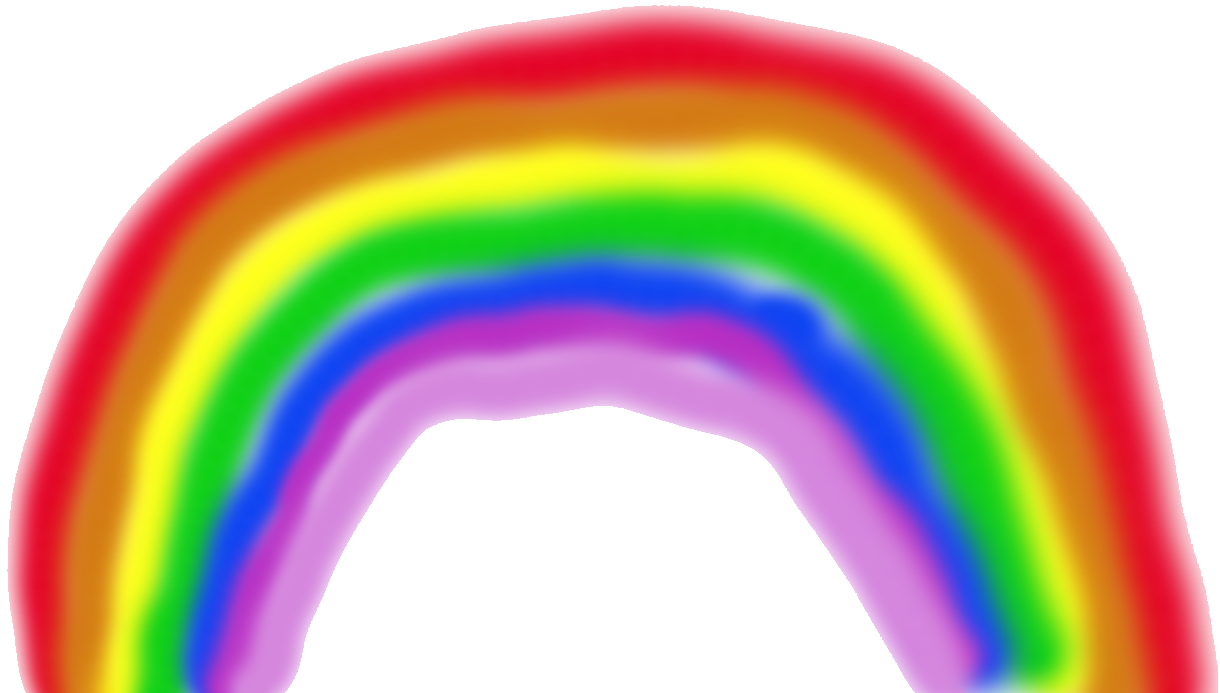
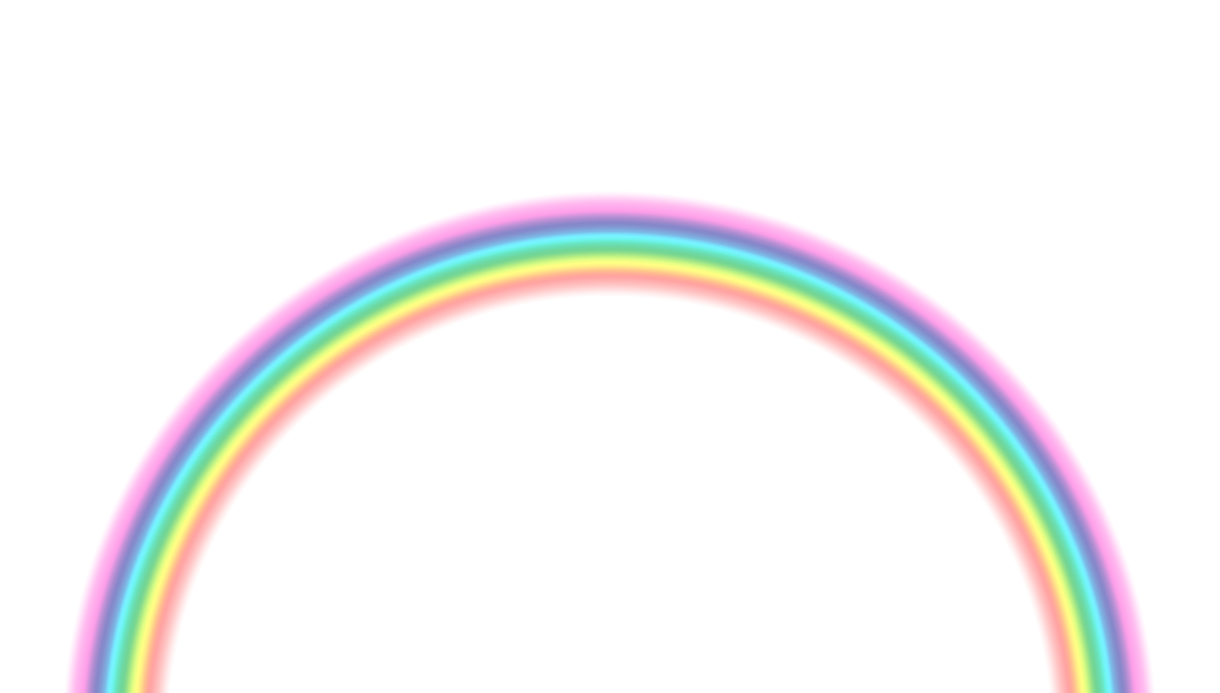
fixed rainbow appearance

diff --git a/World.cpp b/World.cpp
@@ -134,11 +134,11 @@ void World::initBackGround()
 
 	paralaxBackGround[5].isStatic = false;
 	paralaxBackGround[5].texture = App::loadPNG("worldBackGround/rainbow.png", false, false);
-	paralaxBackGround[5].scrollSpeedX = 1;
-	paralaxBackGround[5].scrollSpeedY = 0.15;
+	paralaxBackGround[5].scrollSpeedX = 0.14;
+	paralaxBackGround[5].scrollSpeedY = 0.1;
 	paralaxBackGround[5].aspectRatio = 1220.0 / 693.0;
 	paralaxBackGround[5].moveSpeedX = 0;
-	paralaxBackGround[5].scale = 70;
+	paralaxBackGround[5].scale = 200;
 
 	paralaxBackGround[6].isStatic = false;
 	paralaxBackGround[6].texture = App::loadPNG("worldBackGround/hill2.png", true, false);
